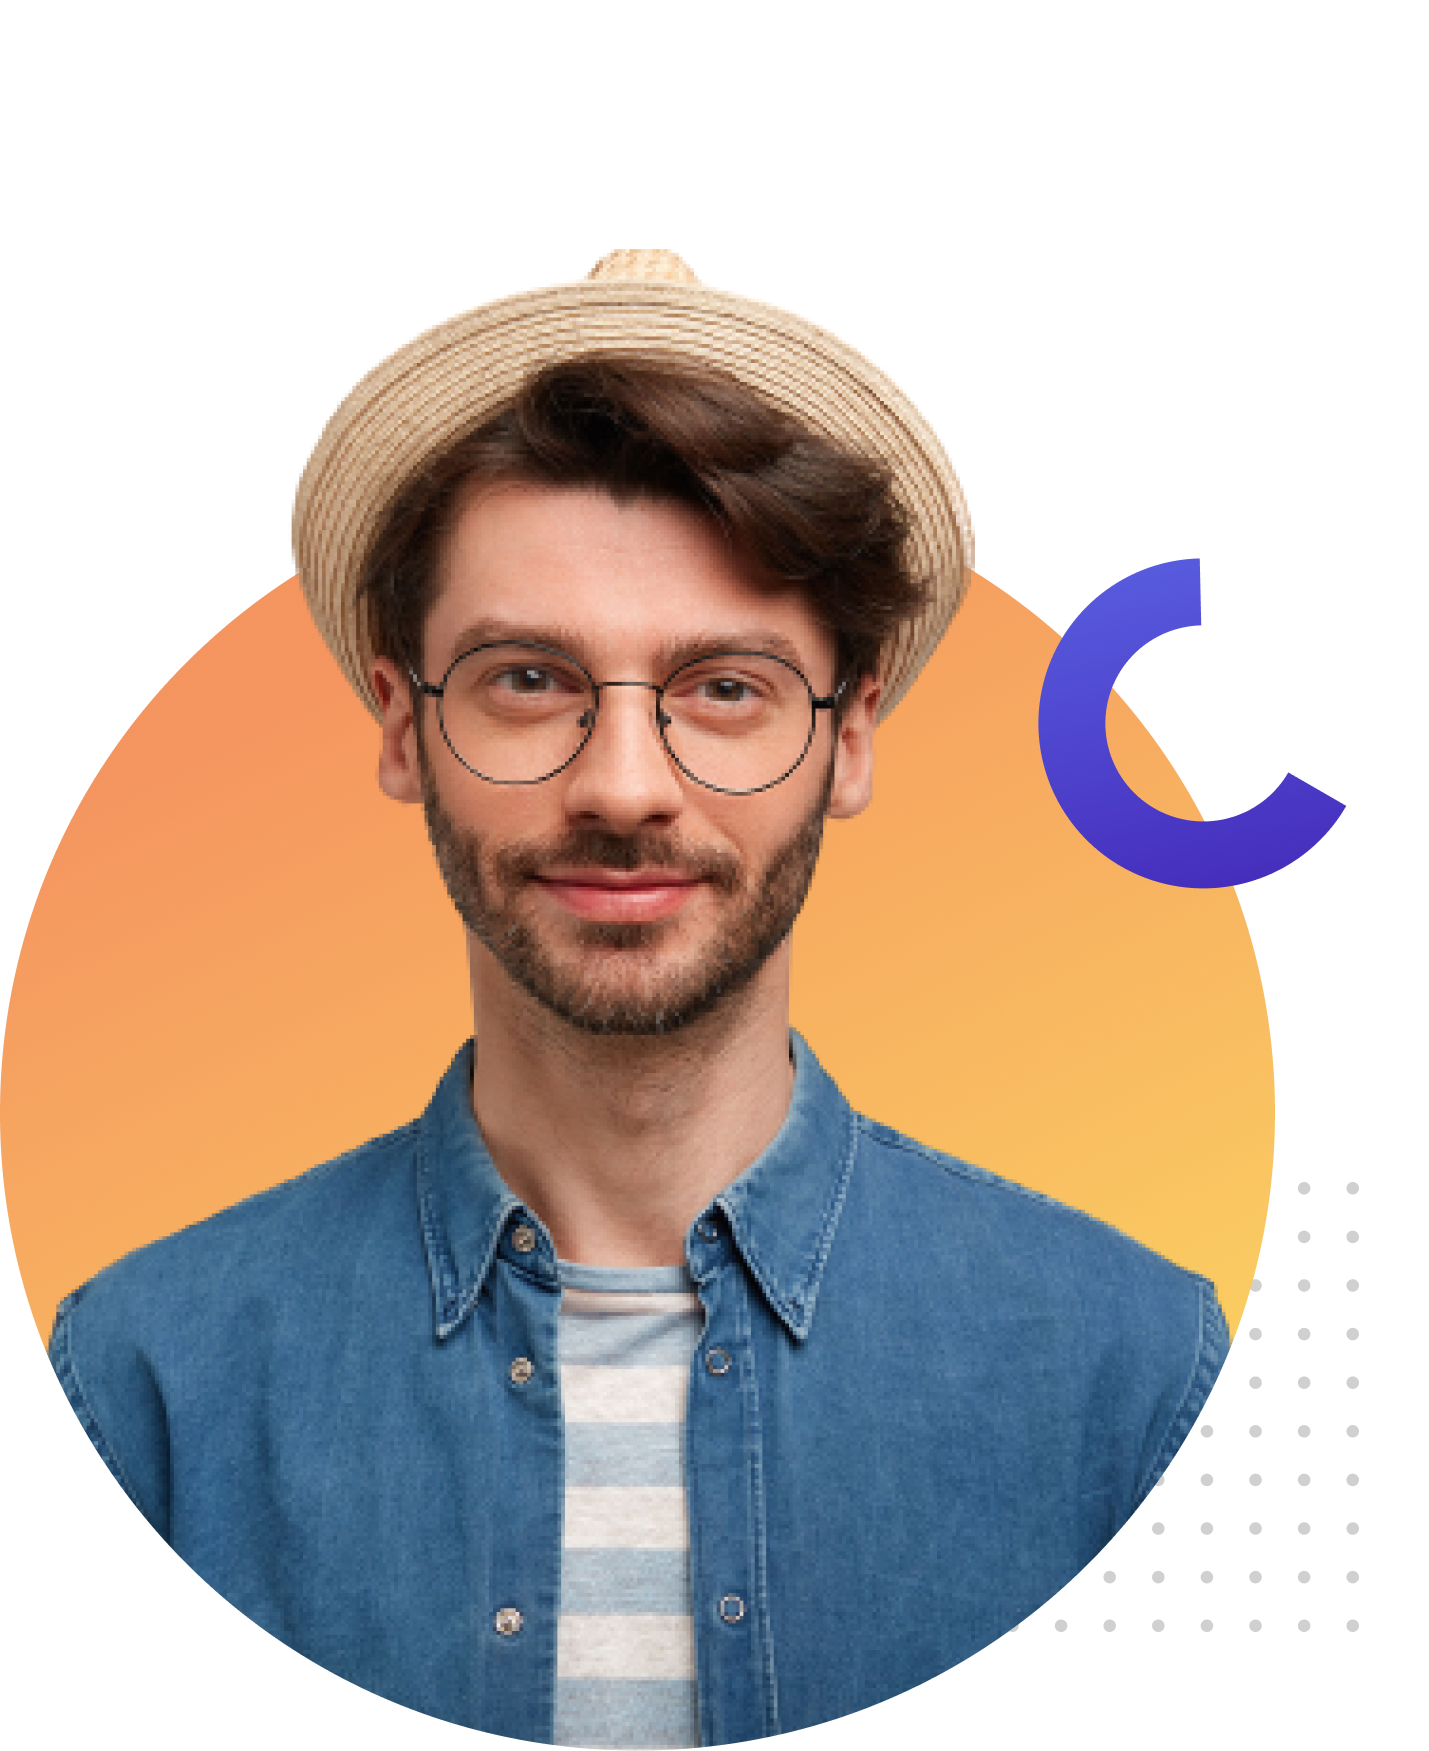
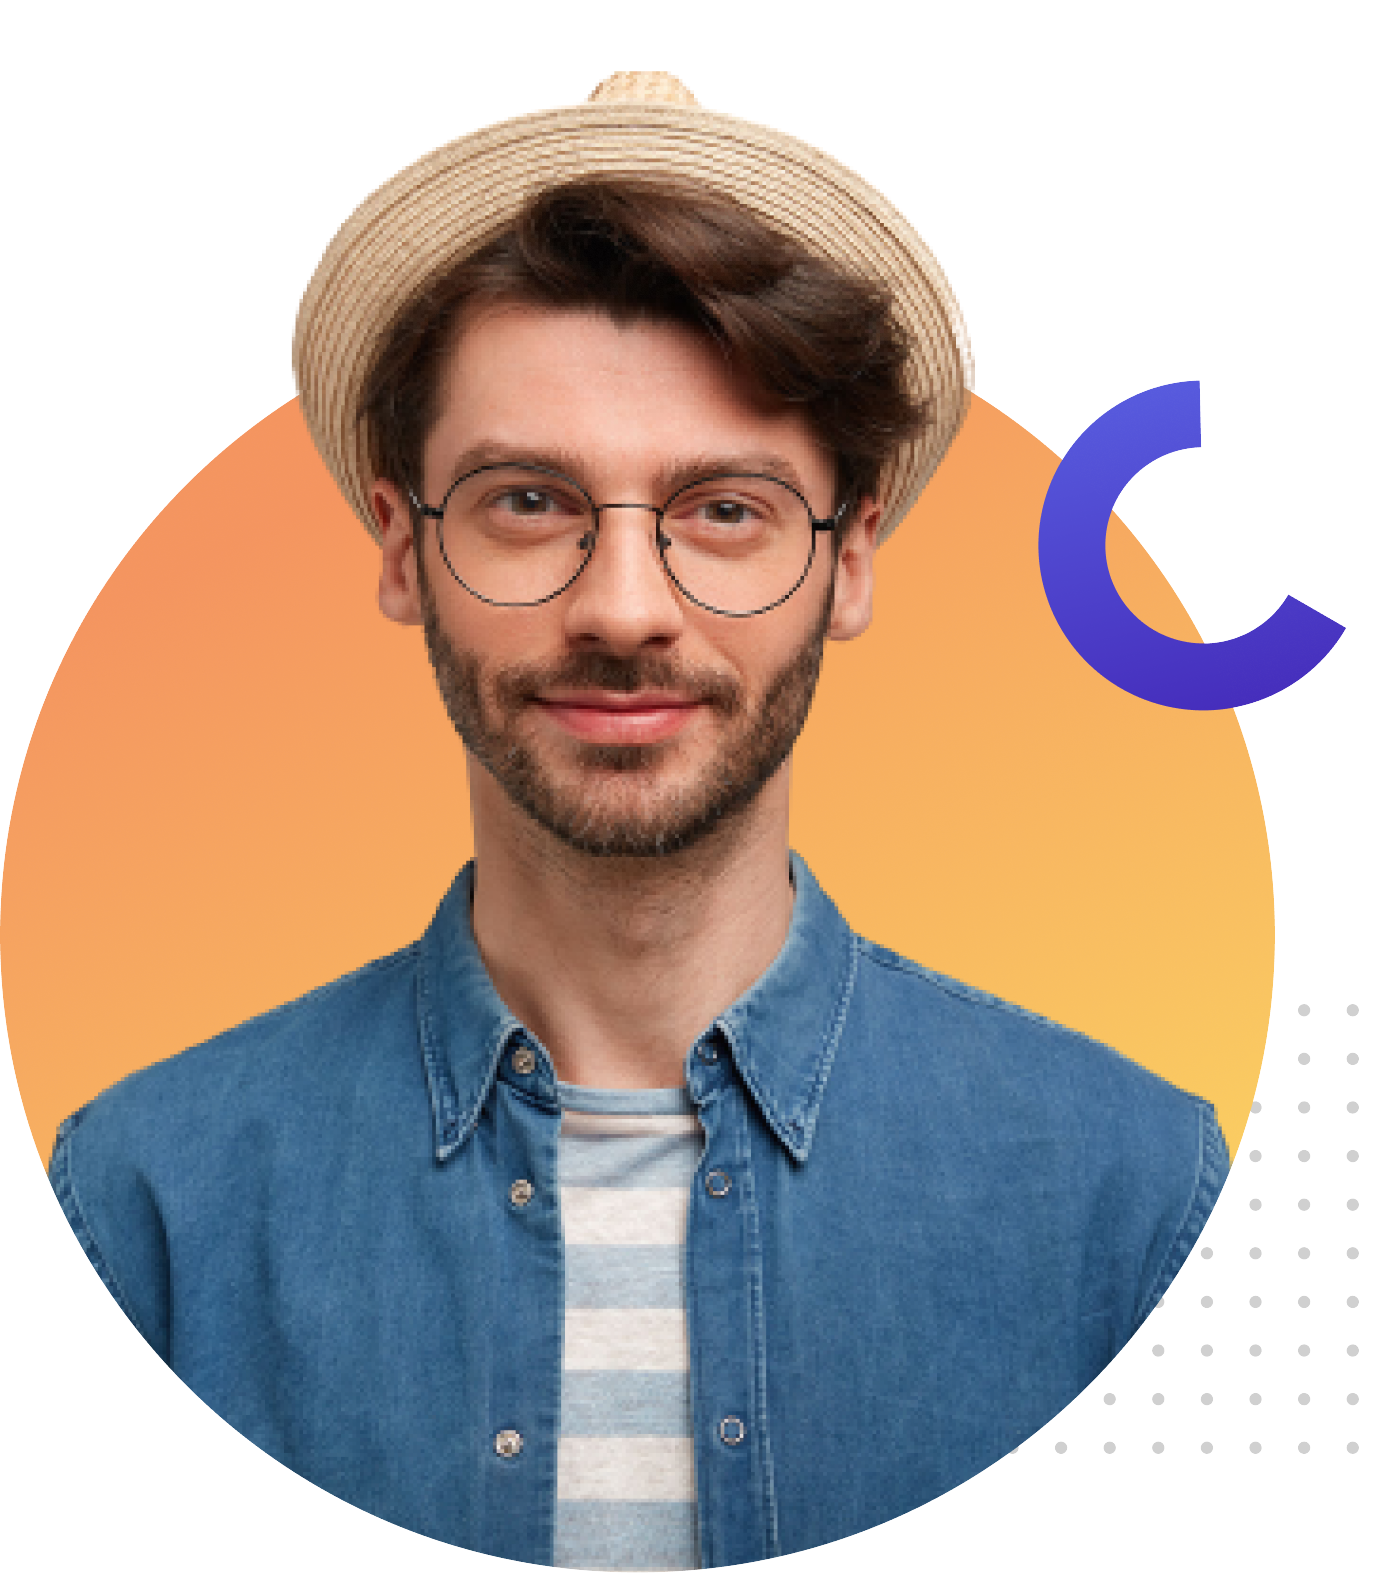
make responsive more

diff --git a/index.html b/index.html
@@ -27,16 +27,31 @@
     <main>
         <section class="about-section-container">
             <div class="about-section">
-               <div>
-                <h1>HELLO, I'M<br>
-                   <span>MD. ASHRAFUL ISLAM</span></h1>
-                <p>A full stack allaround designer that placerat <br>
-                    in massa consectetur</p>
+                <div>
+                    <h1>HELLO, I'M<br>
+                        <span>MD. ASHRAFUL ISLAM</span>
+                    </h1>
+                    <p>A full stack allaround designer that placerat <br>
+                        in massa consectetur</p>
                     <button>Hire Me</button>
-               </div>
-               <div>
-                <img class="img" src="images/do not use this pic.png" alt="">
-               </div>
+                </div>
+                <div>
+                    <img class="img" src="images/do not use this pic.png" alt="">
+                </div>
+            </div>
+        </section>
+        <section class="cv-section-container">
+            <div class="cv-container">
+                <div>
+                    <img class="img-container" src="images/do not use this pic2.png" alt="">
+                </div>
+
+                <div class="about-description">
+                    <h1>ABOUT</h1>
+                    <p>Lorem Ipsum is simply dummy text of the printing <br>and typesetting industry. Lorem Ipsum has been <br>the industry's standard dummy text ever since the <br>1500s, when an unknown printer took a galley of <br>type and scrambled it to make a type specimen book.
+                    </p>
+                    <button>Download CV</button>
+                </div>
             </div>
         </section>
     </main>

diff --git a/style/style.css b/style/style.css
@@ -10,7 +10,7 @@ span {
 
 button {
   border-radius: 6px;
-  background: #FF8367;
+  background: #F86D61;
   width: 170px;
   height: 60px;
   color: white;
@@ -41,7 +41,6 @@ button {
 }
 
 /* about section container */
-
 .about-section {
   display: flex;
   gap: 200px;
@@ -59,6 +58,33 @@ button {
 .text {
   font-size: 18px;
 }
+
+/* cv section container style  */
+
+.img-container{
+  width: 532.07px;
+  height: 600px;
+}
+.cv-container{
+  display: flex;
+  gap: 400px;
+
+}
+.about-description{
+  text-align: center;
+}
+.about-description h1{
+  font-size: 48px;
+  margin-top: 80px;
+ 
+}
+.about-description p{
+  font-size: 18px;
+  margin-bottom: 30px;
+  margin-top: 27px;
+  
+}
+
 
 /* small device responsive */
 
@@ -81,6 +107,19 @@ button {
   .about-section > div {
     text-align: center;
   }
- 
- 
+  .cv-container{
+    flex-direction: column-reverse;
+  }
+  .cv-container > div > img{
+    width: 100%;
+    height: 100%;
+  }
+  .cv-container{
+    gap: 20px;
+  }
+  .about-description{
+    text-align: center;
+  }
+
+  
 }
